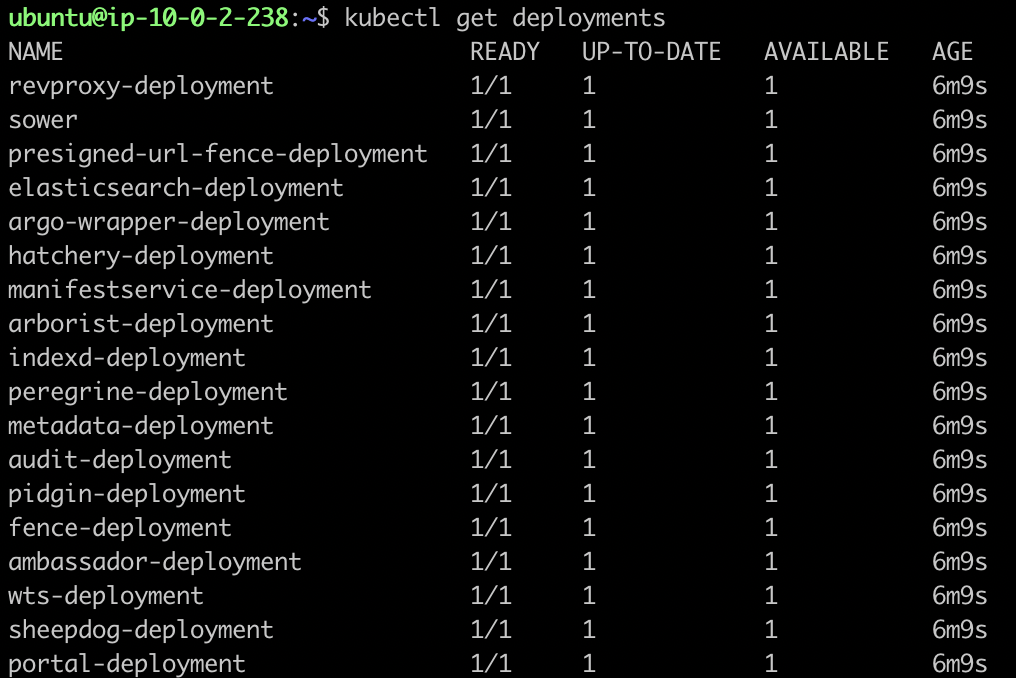
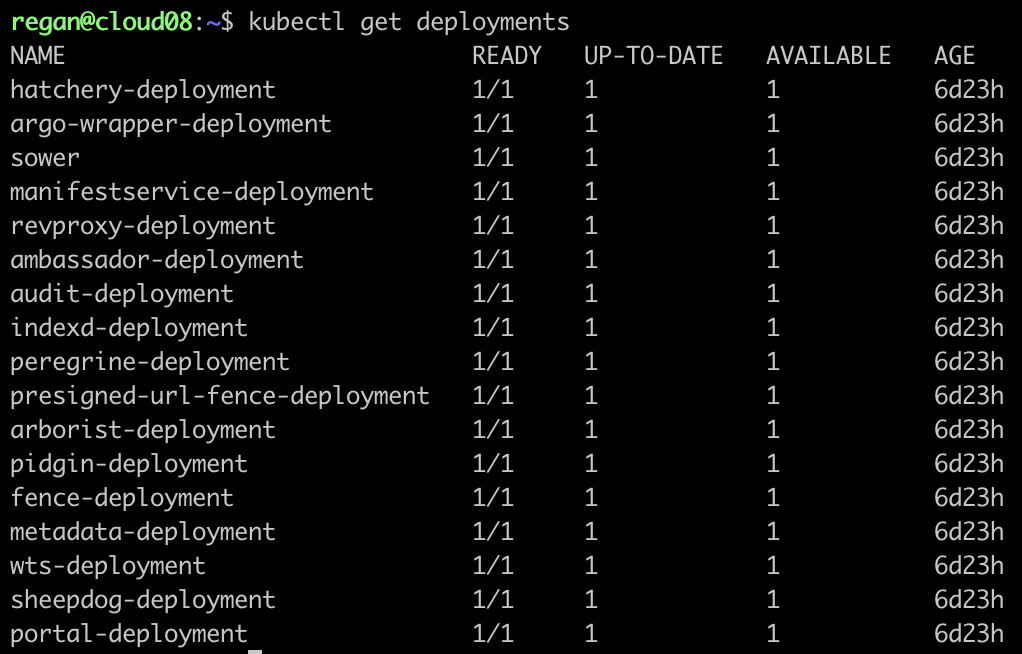
Updated documentation with an image

diff --git a/README.md b/README.md
@@ -275,104 +275,6 @@ The list of deployments can be seen by running:
 ```bash
 kubectl get deployments
 ```    
+![Gen3 services deployed with NGINX](public/assets/images/gen3-deployments.png "Gen3 services deployed with NGINX")   
 
-![Gen3 services deployed with NGINX](/public/assets/images/gen3-deployments-nginx.png "Gen3 services deployed with NGINX")   
 
-As can be seen in the screenshot above, not all of the deployments are ready. We need to investigate why this is the case.   
-
-Several debugging attempts have already been made. The Firewall and DNS have been investigated, but it doesn't look like that is the main cause of the problem. See [this document](/documentation/debugging_networking_issues.md) for more information on some of the troubleshooting and debugging that was attempted.   
-
-Looking at the logs of the `peregrine-deployment` pod,
-```bash
-kubectl logs pod/peregrine-deployment-694c89d4b4-x46qm
-```
-we see the following information (this is just an excerpt):
-```bash
-Traceback (most recent call last):
-  File "/usr/local/lib/python3.6/site-packages/urllib3/connectionpool.py", line 710, in urlopen
-    chunked=chunked,
-  File "/usr/local/lib/python3.6/site-packages/urllib3/connectionpool.py", line 386, in _make_request
-    self._validate_conn(conn)
-  File "/usr/local/lib/python3.6/site-packages/urllib3/connectionpool.py", line 1040, in _validate_conn
-    conn.connect()
-  File "/usr/local/lib/python3.6/site-packages/urllib3/connection.py", line 426, in connect
-    tls_in_tls=tls_in_tls,
-  File "/usr/local/lib/python3.6/site-packages/urllib3/util/ssl_.py", line 450, in ssl_wrap_socket
-    sock, context, tls_in_tls, server_hostname=server_hostname
-  File "/usr/local/lib/python3.6/site-packages/urllib3/util/ssl_.py", line 493, in _ssl_wrap_socket_impl
-    return ssl_context.wrap_socket(sock, server_hostname=server_hostname)
-  File "/usr/local/lib/python3.6/ssl.py", line 407, in wrap_socket
-    _context=self, _session=session)
-  File "/usr/local/lib/python3.6/ssl.py", line 817, in __init__
-    self.do_handshake()
-  File "/usr/local/lib/python3.6/ssl.py", line 1077, in do_handshake
-    self._sslobj.do_handshake()
-  File "/usr/local/lib/python3.6/ssl.py", line 689, in do_handshake
-    self._sslobj.do_handshake()
-ssl.SSLError: [SSL: SSLV3_ALERT_HANDSHAKE_FAILURE] sslv3 alert handshake failure (_ssl.c:852)
-```
-There is an SSL or TLS issue with some of the deployments. We can try creating new certificates for the host (`cloud08`) using `openssl`:
-```bash
-mkdir -p cloud08_certs
-
-openssl req \
--new \
--newkey rsa:2048 \
--x509 \
--sha256 \
--days 365 \
--nodes \
--subj "/O=cloud08/CN=cloud08.core.wits.ac.za" \
--keyout cloud08_certs/cloud08.key \
--out cloud08_certs/cloud08.crt
-```
-These certificates can be added to a Kubernetes secret as follows:
-```bash
-kubectl create secret tls cloud08-tls-secret --key cloud08_certs/cloud08.key --cert cloud08_certs/cloud08.crt
-```
-We can also create a secret that uses the pre-existing certificates on the node which reside in the `/etc/ssl/certs/` directory:
-```bash
-kubectl create secret tls cloud08-certs --key /etc/ssl/certs/ca-certificates.key --cert /etc/ssl/certs/ca-certificates.crt
-```
-Unfortunately, there doesn't seem to be a `.key` file for these old certificates. Without the `.key` file, we cannot use the certificate.   
-
-We can also try creating new certificates for node `pc78`, since there appears to be some mix up regarding the DNS involving the ip addresses of the `cloud08` node and the `pc78` node. Perhaps they are the same nodes with two different names.    
-![Hostname and IP Address of Node](/public/assets/images/nslookup-confusion.png "Hostname and IP Address of Node")   
-
-We'll do the following:
-```bash
-mkdir -p pc78_certs
-
-openssl req \
--new \
--newkey rsa:2048 \
--x509 \
--sha256 \
--days 365 \
--nodes \
--subj "/O=pc78/CN=pc78.core.wits.ac.za" \
--keyout pc78_certs/pc78.key \
--out pc78_certs/pc78.crt
-```
-We'll then create the corresponding secret which will have these newly created certificates:
-```bash
-kubectl create secret tls pc78-tls-secret --key pc78_certs/pc78.key --cert pc78_certs/pc78.crt
-```
-The NGINX ingress controller should be edited to include this secret by adding the following to the `revproxy-dev` manifest under the `spec` section:
-```bash
-  tls:
-  - hosts:
-    - cloud08.core.wits.ac.za
-    secretName: gen3-certs
-  - hosts:
-    - cloud08.core.wits.ac.za
-    secretName: cloud08-tls-secret
-  - hosts:
-    - pc78.core.wits.ac.za
-    secretName: gen3-certs
-  - hosts:
-    - pc78.core.wits.ac.za
-    secretName: pc78-tls-secret
-```
-
-Another reason for the problems we are facing could be due to not having an external load balancer configured for the K3s cluster. When using a cloud provider like AWS, the Amazon Load Balancer (ALB) is automatically configured to be used by the cluster. For on-prem solutions, an external load balancer needs to be manually configured. 

diff --git a/documentation/debugging_networking_issues.md b/documentation/debugging_networking_issues.md
@@ -1,5 +1,104 @@
 ### Troubleshooting Networking Issues
-Some of the Gen3 deployments are not in a READY state. After running the following command,
+Some of the Gen3 deployments are not in a READY state.   
+
+![Failed deployments](public/assets/images/gen3-deployments-incomplete.png "Failed deployments")     
+
+Looking at the logs of the `peregrine-deployment` pod,
+```bash
+kubectl logs pod/peregrine-deployment-694c89d4b4-x46qm
+```
+we see the following information (this is just an excerpt):
+```bash
+Traceback (most recent call last):
+  File "/usr/local/lib/python3.6/site-packages/urllib3/connectionpool.py", line 710, in urlopen
+    chunked=chunked,
+  File "/usr/local/lib/python3.6/site-packages/urllib3/connectionpool.py", line 386, in _make_request
+    self._validate_conn(conn)
+  File "/usr/local/lib/python3.6/site-packages/urllib3/connectionpool.py", line 1040, in _validate_conn
+    conn.connect()
+  File "/usr/local/lib/python3.6/site-packages/urllib3/connection.py", line 426, in connect
+    tls_in_tls=tls_in_tls,
+  File "/usr/local/lib/python3.6/site-packages/urllib3/util/ssl_.py", line 450, in ssl_wrap_socket
+    sock, context, tls_in_tls, server_hostname=server_hostname
+  File "/usr/local/lib/python3.6/site-packages/urllib3/util/ssl_.py", line 493, in _ssl_wrap_socket_impl
+    return ssl_context.wrap_socket(sock, server_hostname=server_hostname)
+  File "/usr/local/lib/python3.6/ssl.py", line 407, in wrap_socket
+    _context=self, _session=session)
+  File "/usr/local/lib/python3.6/ssl.py", line 817, in __init__
+    self.do_handshake()
+  File "/usr/local/lib/python3.6/ssl.py", line 1077, in do_handshake
+    self._sslobj.do_handshake()
+  File "/usr/local/lib/python3.6/ssl.py", line 689, in do_handshake
+    self._sslobj.do_handshake()
+ssl.SSLError: [SSL: SSLV3_ALERT_HANDSHAKE_FAILURE] sslv3 alert handshake failure (_ssl.c:852)
+```
+There is an SSL or TLS issue with some of the deployments. We can try creating new certificates for the host (`cloud08`) using `openssl`:
+```bash
+mkdir -p cloud08_certs
+
+openssl req \
+-new \
+-newkey rsa:2048 \
+-x509 \
+-sha256 \
+-days 365 \
+-nodes \
+-subj "/O=cloud08/CN=cloud08.core.wits.ac.za" \
+-keyout cloud08_certs/cloud08.key \
+-out cloud08_certs/cloud08.crt
+```
+These certificates can be added to a Kubernetes secret as follows:
+```bash
+kubectl create secret tls cloud08-tls-secret --key cloud08_certs/cloud08.key --cert cloud08_certs/cloud08.crt
+```
+We can also create a secret that uses the pre-existing certificates on the node which reside in the `/etc/ssl/certs/` directory:
+```bash
+kubectl create secret tls cloud08-certs --key /etc/ssl/certs/ca-certificates.key --cert /etc/ssl/certs/ca-certificates.crt
+```
+Unfortunately, there doesn't seem to be a `.key` file for these old certificates. Without the `.key` file, we cannot use the certificate.   
+
+We can also try creating new certificates for node `pc78`, since there appears to be some mix up regarding the DNS involving the ip addresses of the `cloud08` node and the `pc78` node. Perhaps they are the same nodes with two different names.    
+![Hostname and IP Address of Node](/public/assets/images/nslookup-confusion.png "Hostname and IP Address of Node")   
+
+We'll do the following:
+```bash
+mkdir -p pc78_certs
+
+openssl req \
+-new \
+-newkey rsa:2048 \
+-x509 \
+-sha256 \
+-days 365 \
+-nodes \
+-subj "/O=pc78/CN=pc78.core.wits.ac.za" \
+-keyout pc78_certs/pc78.key \
+-out pc78_certs/pc78.crt
+```
+We'll then create the corresponding secret which will have these newly created certificates:
+```bash
+kubectl create secret tls pc78-tls-secret --key pc78_certs/pc78.key --cert pc78_certs/pc78.crt
+```
+The NGINX ingress controller should be edited to include this secret by adding the following to the `revproxy-dev` manifest under the `spec` section:
+```bash
+  tls:
+  - hosts:
+    - cloud08.core.wits.ac.za
+    secretName: gen3-certs
+  - hosts:
+    - cloud08.core.wits.ac.za
+    secretName: cloud08-tls-secret
+  - hosts:
+    - pc78.core.wits.ac.za
+    secretName: gen3-certs
+  - hosts:
+    - pc78.core.wits.ac.za
+    secretName: pc78-tls-secret
+```
+
+Another reason for the problems we are facing could be due to not having an external load balancer configured for the K3s cluster. When using a cloud provider like AWS, the Amazon Load Balancer (ALB) is automatically configured to be used by the cluster. For on-prem solutions, an external load balancer needs to be manually configured.    
+
+After running the following command,
 ```bash
 sudo iptables -S
 ```
